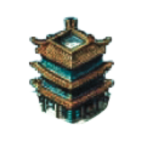
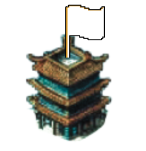
updated flags

diff --git a/pygame_template.py b/pygame_template.py
@@ -38,6 +38,13 @@ while run:
       # Draw the background image onto the screen
   screen.blit(BACKGROUND, (0, 0))
 
+  # Get the current mouse position
+  mouse_x, mouse_y = pygame.mouse.get_pos()
+
+  if (133<mouse_x<180 and 139<mouse_y<202):
+    screen.blit(LEFTTEMP, (105, 109))
+
+
   # Update the display
   pygame.display.flip()
 
